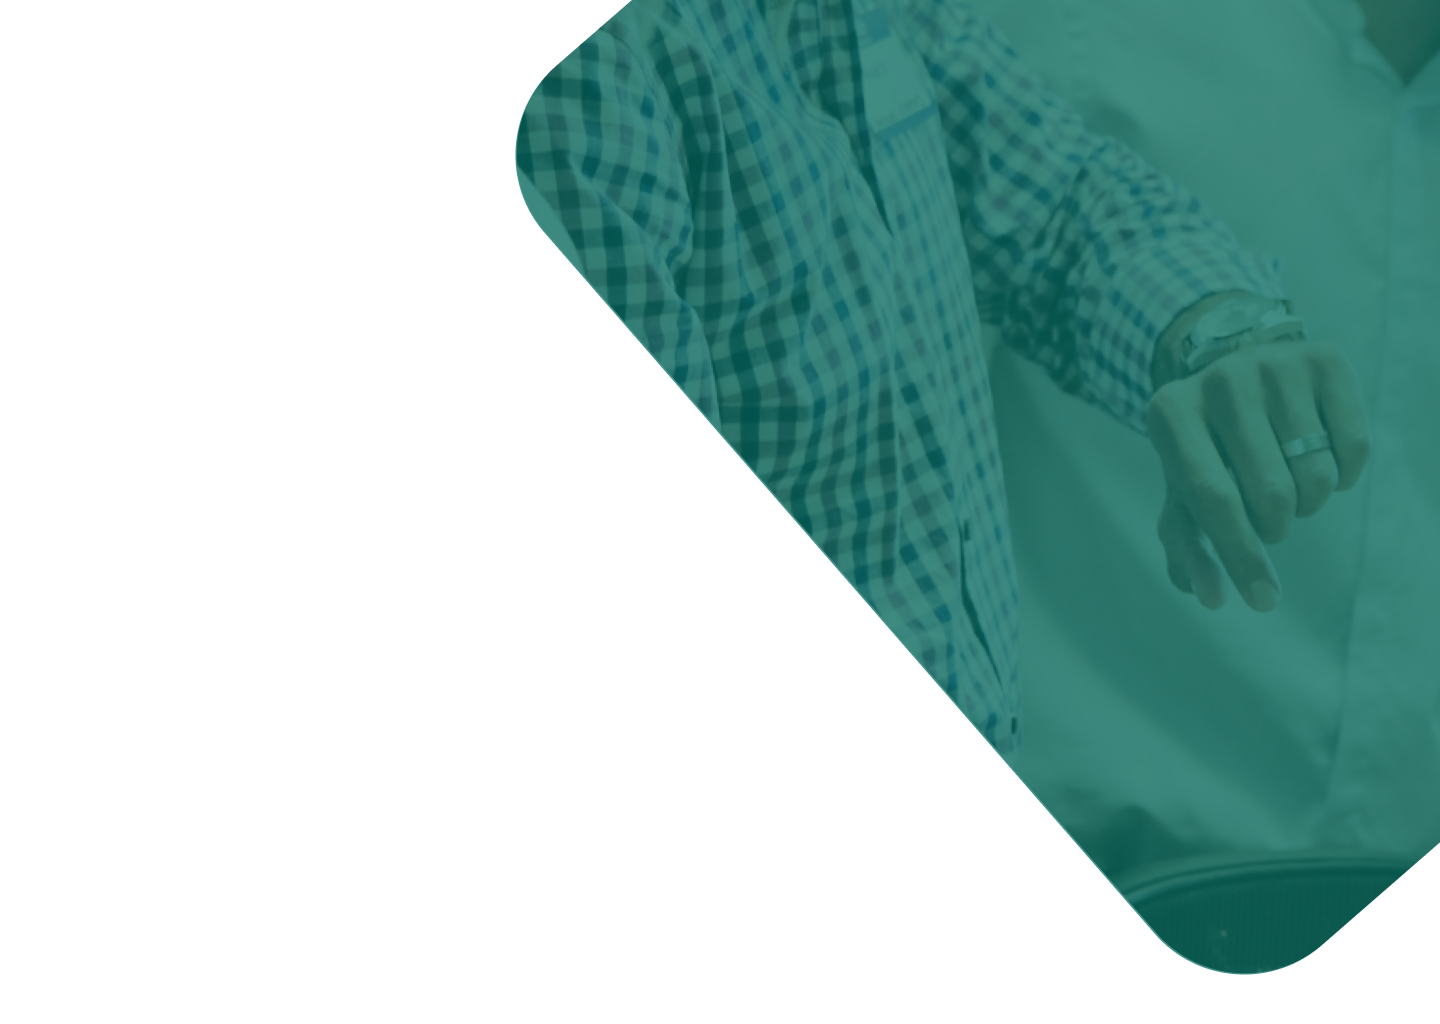
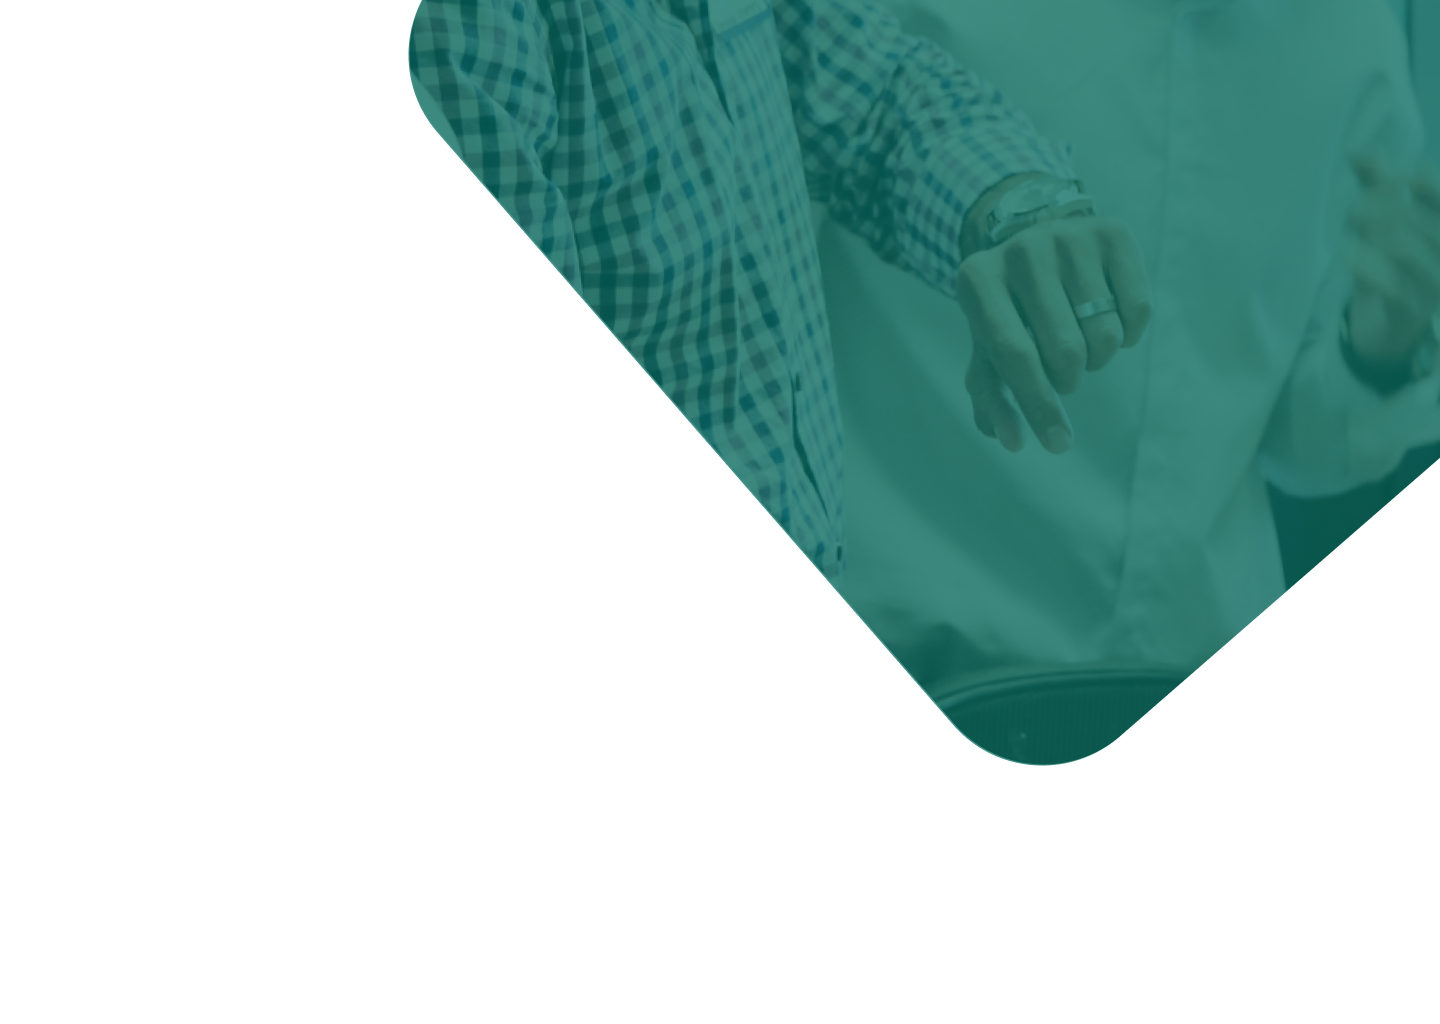
Add files via upload

Changed region(s): [[0.2812, 0.0, 1.0, 0.9688], [0.9375, 0.0, 1.0, 0.0938], [0.9375, 0.1562, 0.9688, 0.1875]]

diff --git a/index.html b/index.html
@@ -6,15 +6,17 @@
     <title>Ecomdesign</title> 
     <link href="https://unpkg.com/aos@2.3.1/dist/aos.css" rel="stylesheet">
     <link href="https://cdn.jsdelivr.net/npm/bootstrap@5.3.0-alpha3/dist/css/bootstrap.min.css" rel="stylesheet" integrity="sha384-KK94CHFLLe+nY2dmCWGMq91rCGa5gtU4mk92HdvYe+M/SXH301p5ILy+dN9+nJOZ" crossorigin="anonymous"> 
-
-    
+    <link rel="preconnect" href="https://fonts.googleapis.com">
+    <link rel="preconnect" href="https://fonts.gstatic.com" crossorigin>
+    <link href="https://fonts.googleapis.com/css2?family=Istok+Web:ital,wght@0,400;0,700;1,400;1,700&display=swap" rel="stylesheet">
+    <link rel="shortcut icon" href="assets/img/logi.png"  type="image/x-icon" widht>
     <link rel="stylesheet" href="assets/css/style.css"> 
     <link rel="stylesheet" href="assets/css/media.css">
   </head>
   <body>
   <header>
     <nav class="navbar navbar-expand-lg  ">
-        <div class="container p-2">
+        <div class="container">
           <div class="nav-brand">
             <img  class="navbar-brand" src="assets/img/logo.png" alt="">
           </div> 
@@ -29,7 +31,7 @@
               <a class="nav-link enlace" aria-current="page" href="#">Inicio</a>
               <a class="nav-link enlace" href="#">Sobre nosotros</a> 
               <a class="nav-link enlace" href="#">Servicios</a> 
-              <a class="nav-link enlace" href="#">Portafolio</a> 
+              <a class="nav-link enlace" href="#portafolio">Portafolio</a> 
               <a class="nav-link enlace" href="#">Contacto</a>
              
             </div>
@@ -37,20 +39,20 @@
         </div>
       </nav> 
 <section>
-  <div class="container">
+  <div class="container p-5">
     <div class="row  align-items-center">
-      <div class="col-md-6 col-sm-12 bg p-3">
+      <div class="col-md-6 col-sm-12 bg p-5 ">
  <div class="brand">
   <img src="assets/img/perfil.png" alt="" > 
  </div> 
  <h2>Ronny</h2>
-<p>
+<p >
   Horem ipsum dolor sit amet, consectetur adipiscing elit. <br>
 Nunc vulputate libero et velit interdum, ac aliquet odio mattis. <br>
 Class aptent taciti sociosqu ad litora torquent per conubia nostra, <br>
 per inceptos himenaeos.
 </p> 
-<form>
+<form class="text-center">
 
 
   <input type="text"> 
@@ -58,7 +60,7 @@ per inceptos himenaeos.
 </form>
       </div> 
       <div class="col-md-6 col-sm-12 p-3 text-center">
-        <h3>Innovación
+        <h3 class="text-light">Innovación
           en cada 
                       
                     <span>pixel.</span> </h3>
@@ -91,11 +93,11 @@ per inceptos himenaeos.
 
 
   <main>
-    <div class="container-fluid m-0 p-0">
+    <div class="container-fluid m-0 p-5">
       <section>
-        <div class="container mt-3 " data-aos="fade-right">
+        <div class="container-fluid mt-3 " data-aos="fade-right">
           <div class="row align-items-center">
-            <div class="col-md-6 col-sm-12 p-5 p-sm-0 text-center">
+            <div class="col-md-6 col-sm-12 p-0 p-sm-0 text-center">
           <img src="assets/img/fl.png" alt="" class="port">
             </div> 
             <div class="col-md-6 col-sm-12 p-5 p-sm-0 text ">
@@ -106,7 +108,7 @@ Nunc vulputate libero et velit interdum, ac aliquet odio mattis.
 Class aptent taciti sociosqu ad litora torquent per conubia nostra, 
 per inceptos himenaeos.
               </p> 
-              <a href="" class="btna"> More info</a>
+              <a href="" class="btna">Saber mas</a>
             </div>
           </div>
         </div>
@@ -119,9 +121,9 @@ per inceptos himenaeos.
 
 
       <section>
-        <div class="container mt-5 " data-aos="fade-left">
+        <div class="container-fluid mt-5 p-5" data-aos="fade-left">
           <div class="row align-items-center flex-row-reverse">
-            <div class="col-md-6 col-sm-12 p-5 p-sm-0 text-center">
+            <div class="col-md-6 col-sm-12 p-0 p-sm-0 text-center">
           <img src="assets/img/fl2.png" alt="" class="port">
             </div> 
             <div class="col-md-6 col-sm-12 p-5 p-sm-0 text ">
@@ -132,18 +134,18 @@ Nunc vulputate libero et velit interdum, ac aliquet odio mattis.
 Class aptent taciti sociosqu ad litora torquent per conubia nostra, 
 per inceptos himenaeos.
               </p> 
-              <a href="" class="btna"> More info</a>
+              <a href="" class="btna"> Saber mas</a>
             </div>
           </div>
         </div>
       </section>
 
 <section>
-  <div class="container p-0 m-auto">
-    <div class="row pt-5 pb-5 px-3">
-      <h1>We Project Maneger</h1>
+  <div class="container-fluid p-0 m-auto" id="portafolio">
+    <div class="row m-auto">
+      <h1>Nuestros Proyectos Creados</h1> 
     </div> 
-    <div class="row p-0  text-center">
+    <div class="row p-3 text-center">
 
       <div class="col-md-3 " data-aos="fade-up" data-aos-duration="1000">
         <a href="#">
@@ -163,7 +165,7 @@ per inceptos himenaeos.
         </a>
       </div>
 
-      <div class="col-md-3 " data-aos="fade-up" data-aos-duration="4000">
+      <div class="col-md-3 " data-aos="fade-up" data-aos-duration="5000">
         <a href="#">
           <img class="single" src="assets/img/four.png" alt="">
         </a>
@@ -182,13 +184,43 @@ per inceptos himenaeos.
   
   
   <footer>
-<div class="container">
-  <div class="row">
-    <div class="col-md-12">
-      <div class="brand">
-        <img src="assets/img/" alt="">
+<div class="container-fluid">
+  <div class="row  mt-5  p-3 ">
+
+
+
+
+    <div class="col-md-12 text-center">
+      <div class="brand_2 text-center">
+        <img  class="text-center" src="assets/img/logotipo_3.png" alt="">
       </div>
     </div>
+
+
+
+
+    <div class="col-md-12 text-center">
+      <div class="menu-2 text-center p-3">
+        <a class="nav-link enlace " aria-current="page" href="#">INICIO</a>
+        <a class="nav-link enlace " href="#">SOBRE NOSOTROS</a> 
+        <a class="nav-link enlace " href="#">SERVICIOS</a> 
+        <a class="nav-link enlace " href="#">PORTAFOLIO</a> 
+        <a class="nav-link enlace " href="#">CONTACTO</a>
+      </div>
+    </div>
+
+<hr>
+
+
+    
+    <div class="col-md-12 text-center">
+      <div class="brand">
+        <p>® 2023 By create Samuel casaran</p>
+      </div>
+    </div>
+
+
+
   </div>
 </div>
   </footer>

diff --git a/assets/css/style.css b/assets/css/style.css
@@ -1,19 +1,27 @@
 *{
     margin: 0%;
     padding: 0%;
-    box-sizing: border-box;
+    box-sizing: border-box; 
+    font-family: 'Istok Web', sans-serif;
+ 
 }
 body{
-    background-color: #ffffff; 
-    margin: 0%;
-    padding: 0%;
-    box-sizing: border-box;
-}
+    background-color: white; 
+    overflow-x: hidden;
+} 
+
+.container-fluid{
+    overflow-x: hidden;
+}  
+.container{
+    overflow-x: hidden;
+} 
+
 
 
 
 header{
-    background-image: url(../img/fondo.jpg);
+    background-image: url(../img/fondo.png);
     background-position: top; 
     background-size: cover; 
     height: 140vh;
@@ -41,10 +49,11 @@ header{
    
 } 
 h2{
-color: #059B8B;
+color: #059B8B; 
+font-weight: bold;
 } 
 p{
-    font-size: 13px;  
+    font-size: 15px;  
     color: #7B7878;
     
 }  
@@ -96,12 +105,10 @@ display: none;
     font-size: 13px;
     text-decoration: none;
     border: 1px solid #05776A;  
-    padding-left: 40px;
-    padding-right: 40px; 
-    padding-top: 5px;
-    padding-bottom: 5px; 
     border-radius: 20px; 
-    transition: ease-in-out 0.3s ;
+    transition: ease-in-out 0.3s ; 
+    width: 100%; 
+    padding:  10px 10px 10px 15px;
 }
 .btna:hover{
     transition: ease-in-out 0.3s ; 
@@ -111,26 +118,49 @@ display: none;
     
 }
 .single{ 
-    width: 95%;
+    max-width: 100%;
     transition: ease-in-out 0.3s ; 
   
 }
 .single:hover{ 
-    transform: scale(1.05);
+    transform: scale(1.1);
     transition: ease-in-out 0.3s ; 
  
 } 
 h1{
-    font-size: 25px;
+    font-size: 35px; 
+  font-weight: bold;
 } 
 .bg3{
     background-color: white;
 }
+.menu-2{
+    display: flex;  
+    flex-flow: row wrap;
+    justify-content: center;  
+
+}
+.menu-2 a{ 
+   font-size: 13px; 
+   color: #7B7878;
+    
+}
 
 
 
+.brand_2{
+    display: flex; 
+    justify-content: center; 
 
-
+} 
+h4  {
+font-weight: bold;
+font-size: 30px;
+} 
+footer  { 
+    margin-top: 200px;
+  background-color: rgb(244, 244, 244);
+    } 
 
 
 

diff --git a/assets/css/media.css b/assets/css/media.css
@@ -9,11 +9,10 @@ border: 1px solid rgba(255, 255, 255, 0.3);
 color: rgb(156, 156, 156);
 
   }  
-  body{  
-    background-color: rgba(240, 248, 255, 0);
-    background-image: url(../img/fondo.png);
+  header{  
+    background-image: url(../img/fondo3.png);
     background-size: cover;
-    
+    height: 130vh;
   } 
   h1{
     text-align: center;
@@ -27,12 +26,8 @@ color: rgb(156, 156, 156);
 .navbar-brand{
   display: none;
 } 
-header{
-  background: none;
-}
-body{
-  background-image:none;
-} 
+
+
 .text{
   display: flex;
   flex-flow: column wrap;
